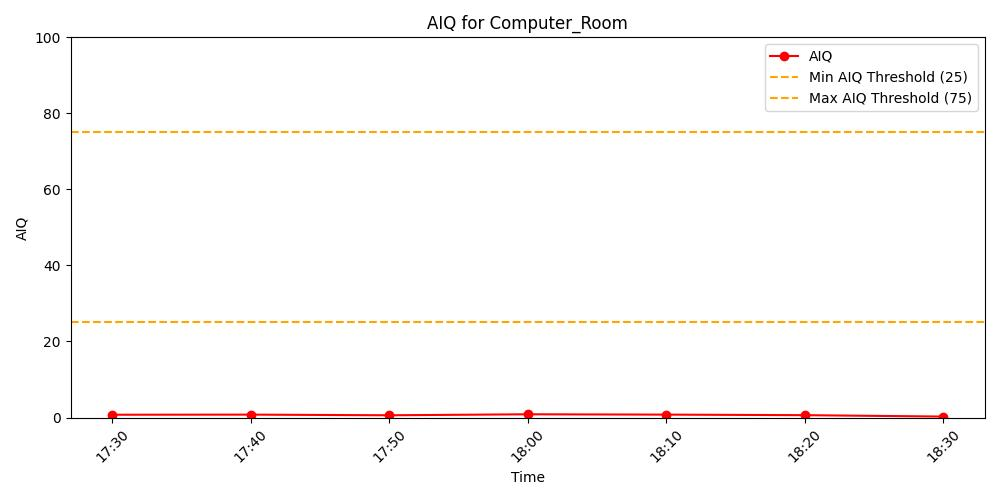
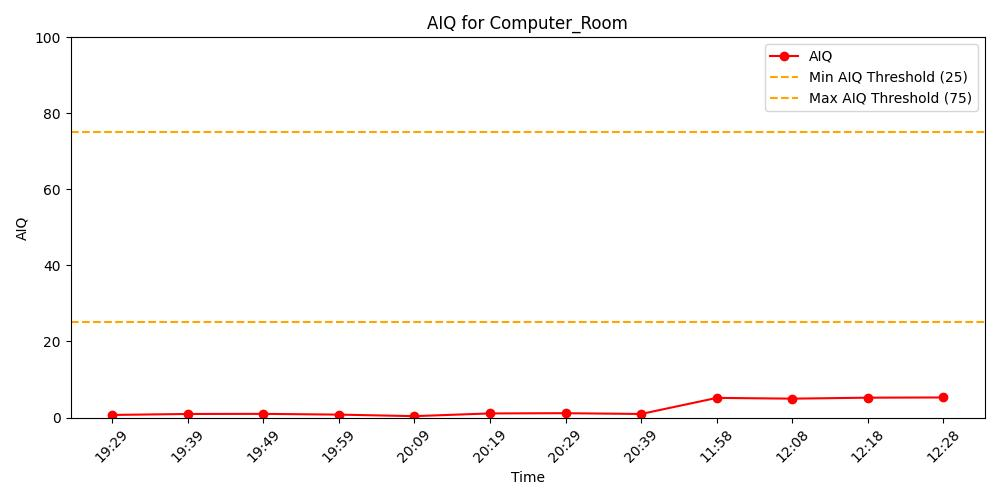
asdf

diff --git a/Next-Best Action System/MAIN.py b/Next-Best Action System/MAIN.py
@@ -1,14 +1,18 @@
-
 from ExtractData import *
 import threading
 from watchdog.observers import Observer
 from watchdog.events import FileSystemEventHandler
 import time
-
 from Plotting import *
 from ComfortMeasures import *
+from drive_upload import authenticate_drive, upload_file
 
 class JsonFileChangeHandler(FileSystemEventHandler):
+    def __init__(self, drive_service, folder_id=None):
+        self.drive_service = drive_service
+        self.folder_id = folder_id
+        super().__init__()
+
     def on_modified(self, event):
         # This function is called when a file is modified
         print('find modified')
@@ -22,14 +26,17 @@ class JsonFileChangeHandler(FileSystemEventHandler):
             # Extract the plot_id or sensor name from filename
             plot_id = os.path.basename(event.src_path).split('.')[0]
 
-            # Execute plotting functions
-            plot_and_save_TEMP(timestamps, apparent_temps, f"Apparent Temp for {plot_id}", plot_id)
-            plot_and_save_AIQ(timestamps, aiq_values, f"AIQ for {plot_id}", plot_id)
+            # Execute plotting functions and get file paths
+            temp_plot_path = plot_and_save_TEMP(timestamps, apparent_temps, f"Apparent Temp for {plot_id}", plot_id)
+            aiq_plot_path = plot_and_save_AIQ(timestamps, aiq_values, f"AIQ for {plot_id}", plot_id)
 
+            # Upload the plots to Google Drive
+            upload_file(self.drive_service, temp_plot_path, self.folder_id)
+            upload_file(self.drive_service, aiq_plot_path, self.folder_id)
 
-def start_monitoring(path):
+def start_monitoring(path, drive_service, folder_id=None):
     print(f"Starting to monitor: {path}")
-    event_handler = JsonFileChangeHandler()
+    event_handler = JsonFileChangeHandler(drive_service, folder_id)
     observer = Observer()
     observer.schedule(event_handler, path, recursive=False)
     observer.start()
@@ -40,7 +47,6 @@ def start_monitoring(path):
         observer.stop()
         observer.join()
 
-
 if __name__ == "__main__":
     mqtt_client = setup_mqtt()
 
@@ -48,11 +54,16 @@ if __name__ == "__main__":
     mqtt_thread = threading.Thread(target=start_mqtt_client, args=(mqtt_client,))
     mqtt_thread.start()
 
+    # Authenticate and get the Google Drive client
+    drive_service = authenticate_drive()
+
+    # Optional: specify a Google Drive folder ID where you want to save the files
+    folder_id = 'https://drive.google.com/drive/u/0/folders/1PuFfVamE2cC-9mfCxCM9BpEcC4NLttg-'  # Replace with your folder ID
+
     # Start file monitoring in the main thread or another thread if preferred
-    file_monitoring_thread = threading.Thread(target=start_monitoring, args=('C:/GitHub Repositories/UAB_EnergyStudy/Next-Best Action System/sensor_data_json',))
+    file_monitoring_thread = threading.Thread(target=start_monitoring, args=('C:/GitHub Repositories/UAB_EnergyStudy/Next-Best Action System/sensor_data_json', drive_service, folder_id))
     file_monitoring_thread.start()
 
     # Optional: Wait for these threads if necessary
     mqtt_thread.join()
     file_monitoring_thread.join()
-

diff --git a/Next-Best Action System/drive_upload.py b/Next-Best Action System/drive_upload.py
@@ -1,0 +1,49 @@
+import os
+from google.oauth2 import service_account
+from googleapiclient.discovery import build
+from googleapiclient.http import MediaFileUpload
+
+# Path to your service account credentials file
+CREDENTIALS_FILE = 'C:/GitHub Repositories/UAB_EnergyStudy/Next-Best Action System/uab-study-1c3d68af355c.json'
+
+def authenticate_drive():
+    credentials = service_account.Credentials.from_service_account_file(
+        CREDENTIALS_FILE, 
+        scopes=['https://www.googleapis.com/auth/drive.file']
+    )
+    drive_service = build('drive', 'v3', credentials=credentials)
+    return drive_service
+
+def create_folder(service, folder_name, parent_folder_id=None):
+    file_metadata = {
+        'name': folder_name,
+        'mimeType': 'application/vnd.google-apps.folder'
+    }
+    if parent_folder_id:
+        file_metadata['parents'] = [parent_folder_id]
+
+    folder = service.files().create(body=file_metadata, fields='id').execute()
+    print(f"Folder '{folder_name}' created with ID: {folder.get('id')}")
+    return folder.get('id')
+
+def upload_file(service, file_path, folder_id):
+    file_name = os.path.basename(file_path)
+    file_metadata = {
+        'name': file_name,
+        'parents': [folder_id]
+    }
+
+    media = MediaFileUpload(file_path, mimetype='image/jpeg')
+    file = service.files().create(body=file_metadata, media_body=media, fields='id').execute()
+    print(f"Upload Successful: {file_name}, File ID: {file.get('id')}")
+    return file.get('id')
+
+def upload_folder(service, folder_path, parent_folder_id=None):
+    folder_name = os.path.basename(folder_path)
+    folder_id = create_folder(service, folder_name, parent_folder_id)
+
+    for root, _, files in os.walk(folder_path):
+        for file_name in files:
+            file_path = os.path.join(root, file_name)
+            upload_file(service, file_path, folder_id)
+    return folder_id

diff --git a/Next-Best Action System/ExtractData.py b/Next-Best Action System/ExtractData.py
@@ -17,8 +17,8 @@ def setup_mqtt():
     # Sensor name mapping
     sensors_name = {
         "q4-1003-7456": "Q4-1003",
-        "eui-24e124128c147470": "UNKNOWN",
-        "eui-24e124128c147446": "UNKNOWN",
+        "eui-24e124128c147470": "UNKNOWN1",
+        "eui-24e124128c147446": "UNKNOWN2",
         "eui-24e124710c408089": "OpenLab - Laser Room",
         "eui-24e124128c147500": "OpenLab - Main Room",
         "eui-24e124128c147204": "DigitalLab",
@@ -92,7 +92,7 @@ def setup_mqtt():
 
                 # Create a deque for the room if it does not exist
                 if room_name not in sensor_data:
-                    sensor_data[room_name] = deque(maxlen=15)
+                    sensor_data[room_name] = deque(maxlen=14)
 
                 # Extract all possible variables from the payload and form a dictionary
                 data_dict = {"timestamp": timestamp, "room_name": room_name}
@@ -126,7 +126,7 @@ def setup_mqtt():
                     data = json.load(file)
                     # Ensure the deque for each sensor is initialized properly
                     if sensor_name not in sensor_data:
-                        sensor_data[sensor_name] = deque(maxlen=7)
+                        sensor_data[sensor_name] = deque(maxlen=14)
                     # Load the data into the deque
                     for item in data:
                         sensor_data[sensor_name].append(item)

diff --git a/Next-Best Action System/Plotting.py b/Next-Best Action System/Plotting.py
@@ -4,6 +4,7 @@ from datetime import datetime
 import matplotlib.pyplot as plt
 from ComfortMeasures import calculate_aiq, calculate_apparent_temp, v_relative
 import time
+from drive_upload import authenticate_drive, upload_file, upload_folder
 
 def read_sensor_data(file_path):
     retry_count = 0
@@ -39,7 +40,6 @@ def process_data(data):
         met = 1.2
         clo = 0.5
 
-
         aiq = calculate_aiq(co2, tvoc, o3, pm10, pm2_5)
         apparent_temp = calculate_apparent_temp(temp, humidity, air_speed, met, clo)
 
@@ -47,7 +47,6 @@ def process_data(data):
         apparent_temps.append(apparent_temp)
 
     return timestamps, aiq_values, apparent_temps
-
 
 def plot_and_save_TEMP(timestamps, temp_values, title, plot_id):
     plt.figure(figsize=(10, 5))
@@ -71,6 +70,7 @@ def plot_and_save_TEMP(timestamps, temp_values, title, plot_id):
     plt.savefig(plot_file_path, format='jpg')
     plt.close()
 
+    return plot_file_path
 
 def plot_and_save_AIQ(timestamps, aiq_values, title, plot_id):
     plt.figure(figsize=(10, 5))
@@ -93,3 +93,5 @@ def plot_and_save_AIQ(timestamps, aiq_values, title, plot_id):
     plot_file_path = os.path.join('C:/GitHub Repositories/UAB_EnergyStudy/Next-Best Action System/sensor_data_jpg/AIQ', f"{plot_id}.jpg")
     plt.savefig(plot_file_path, format='jpg')
     plt.close()
+
+    return plot_file_path
